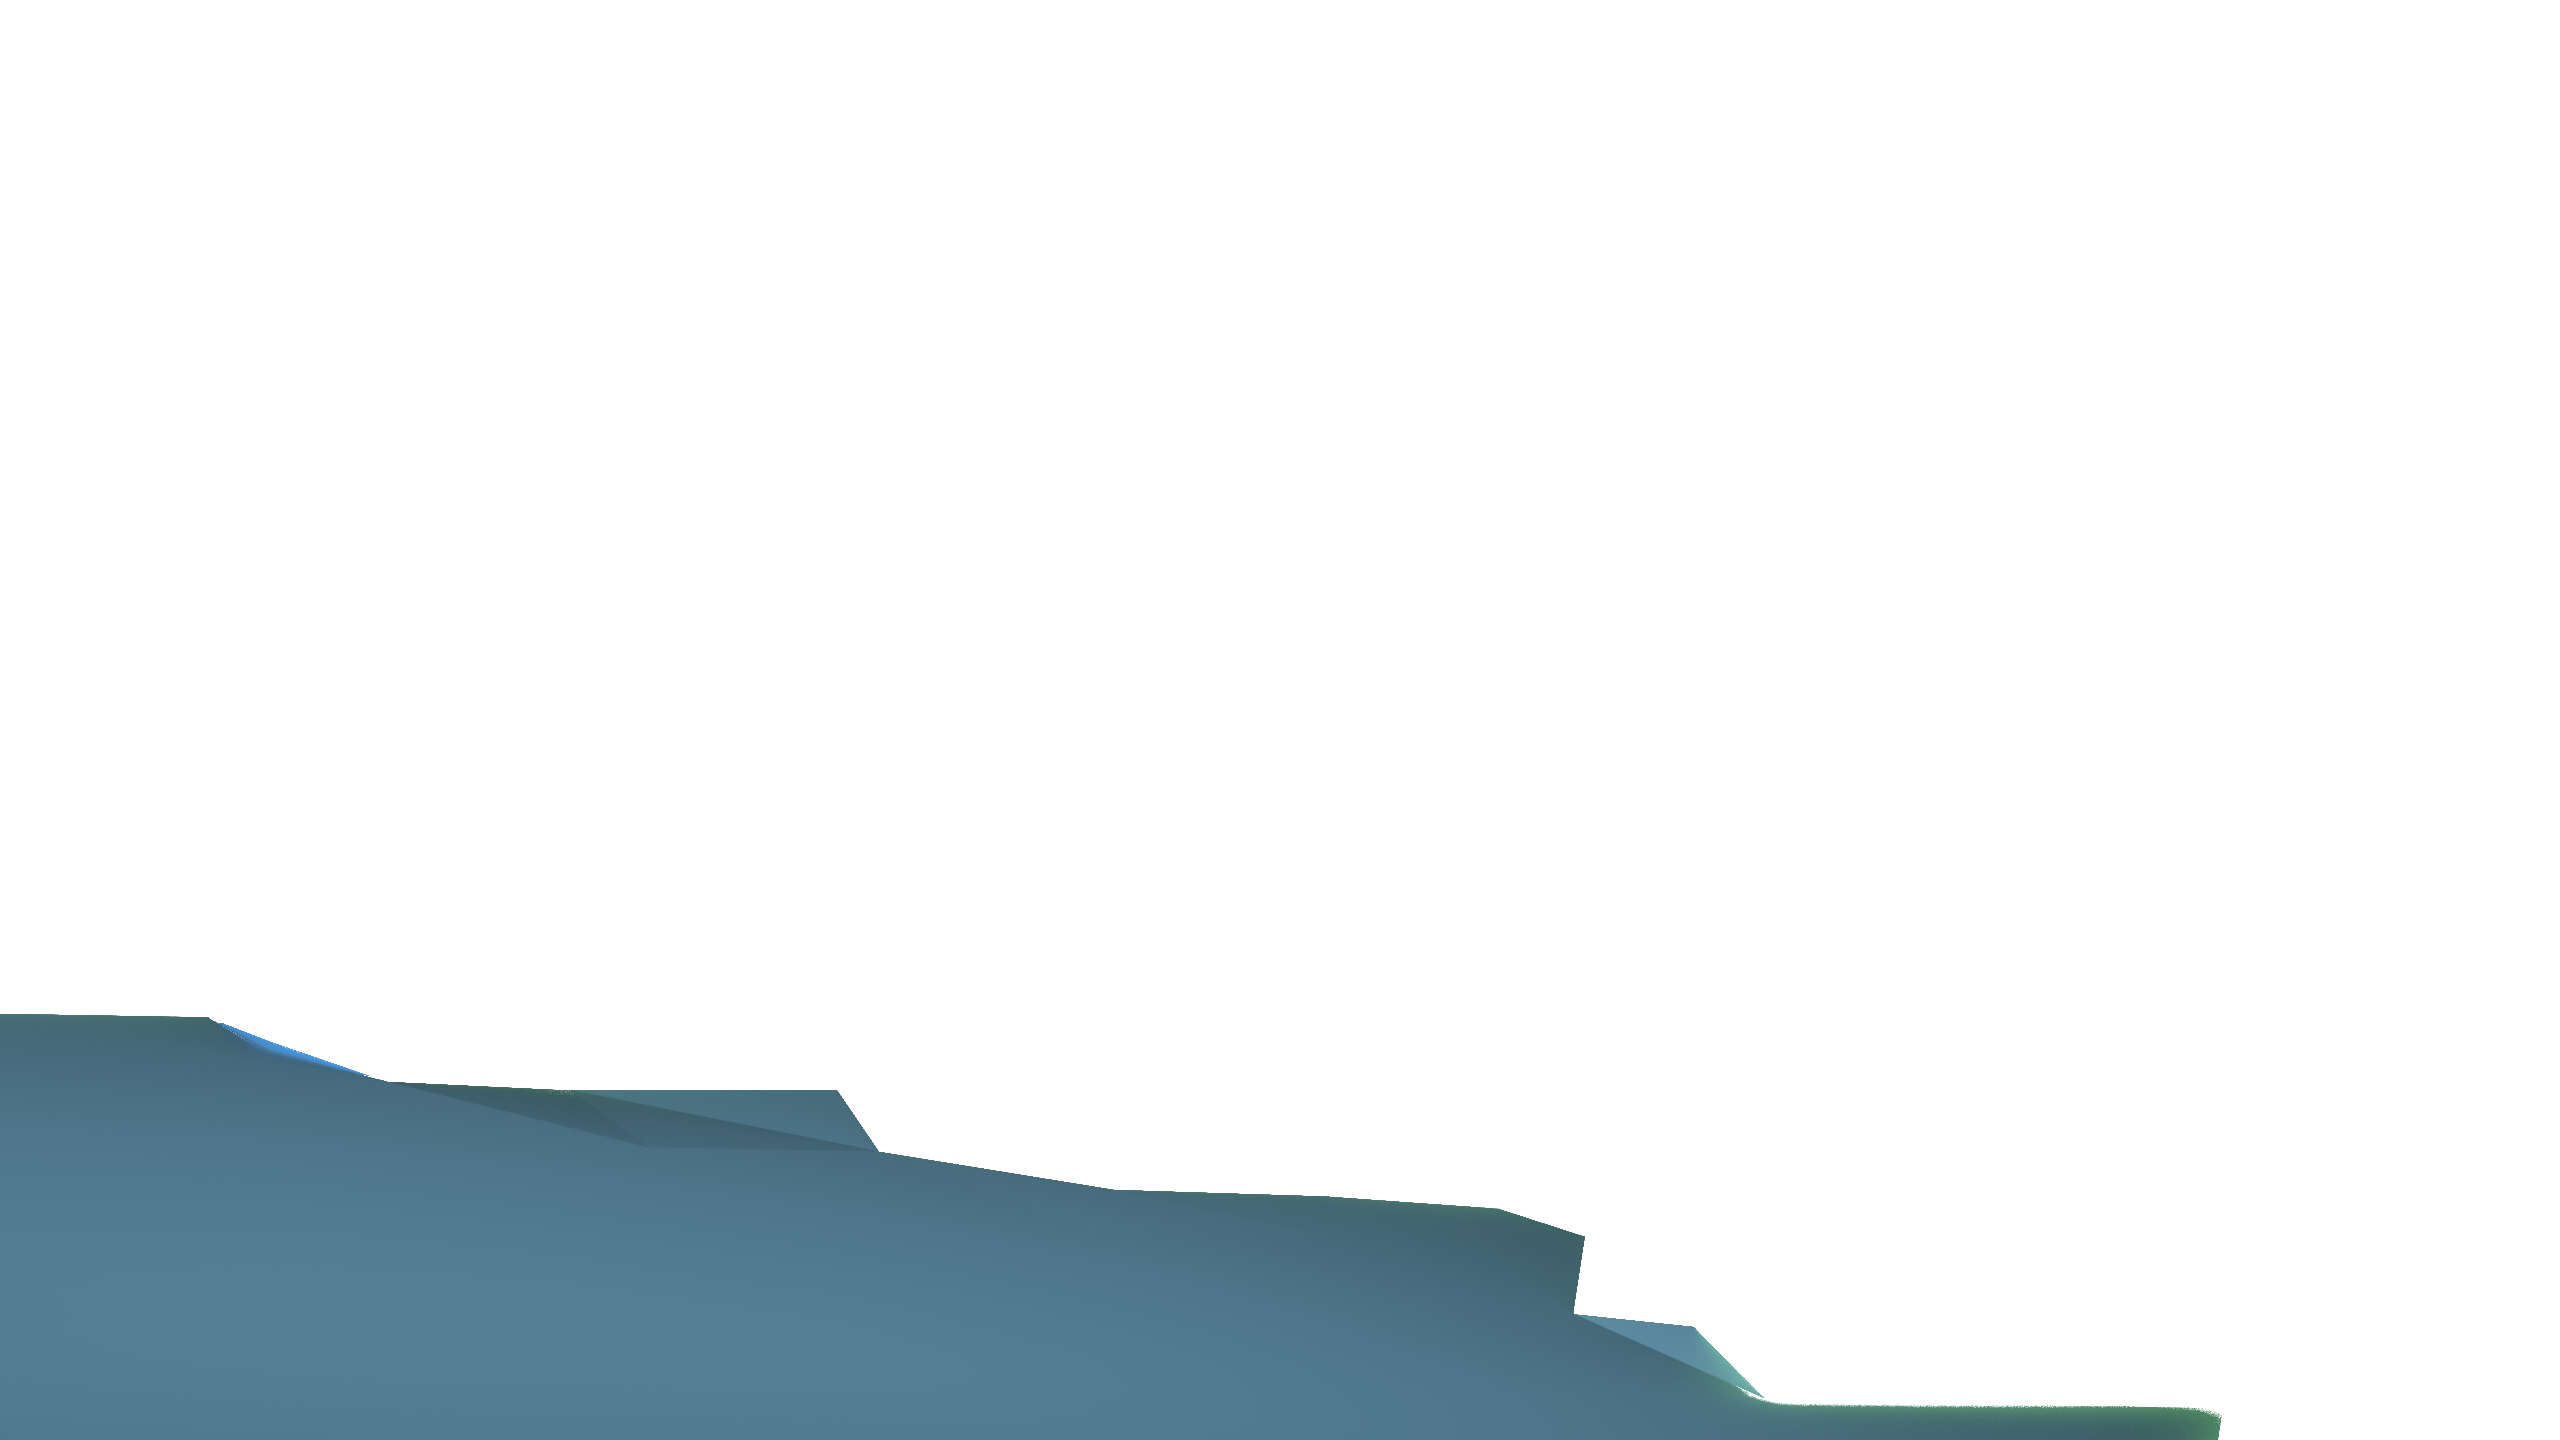
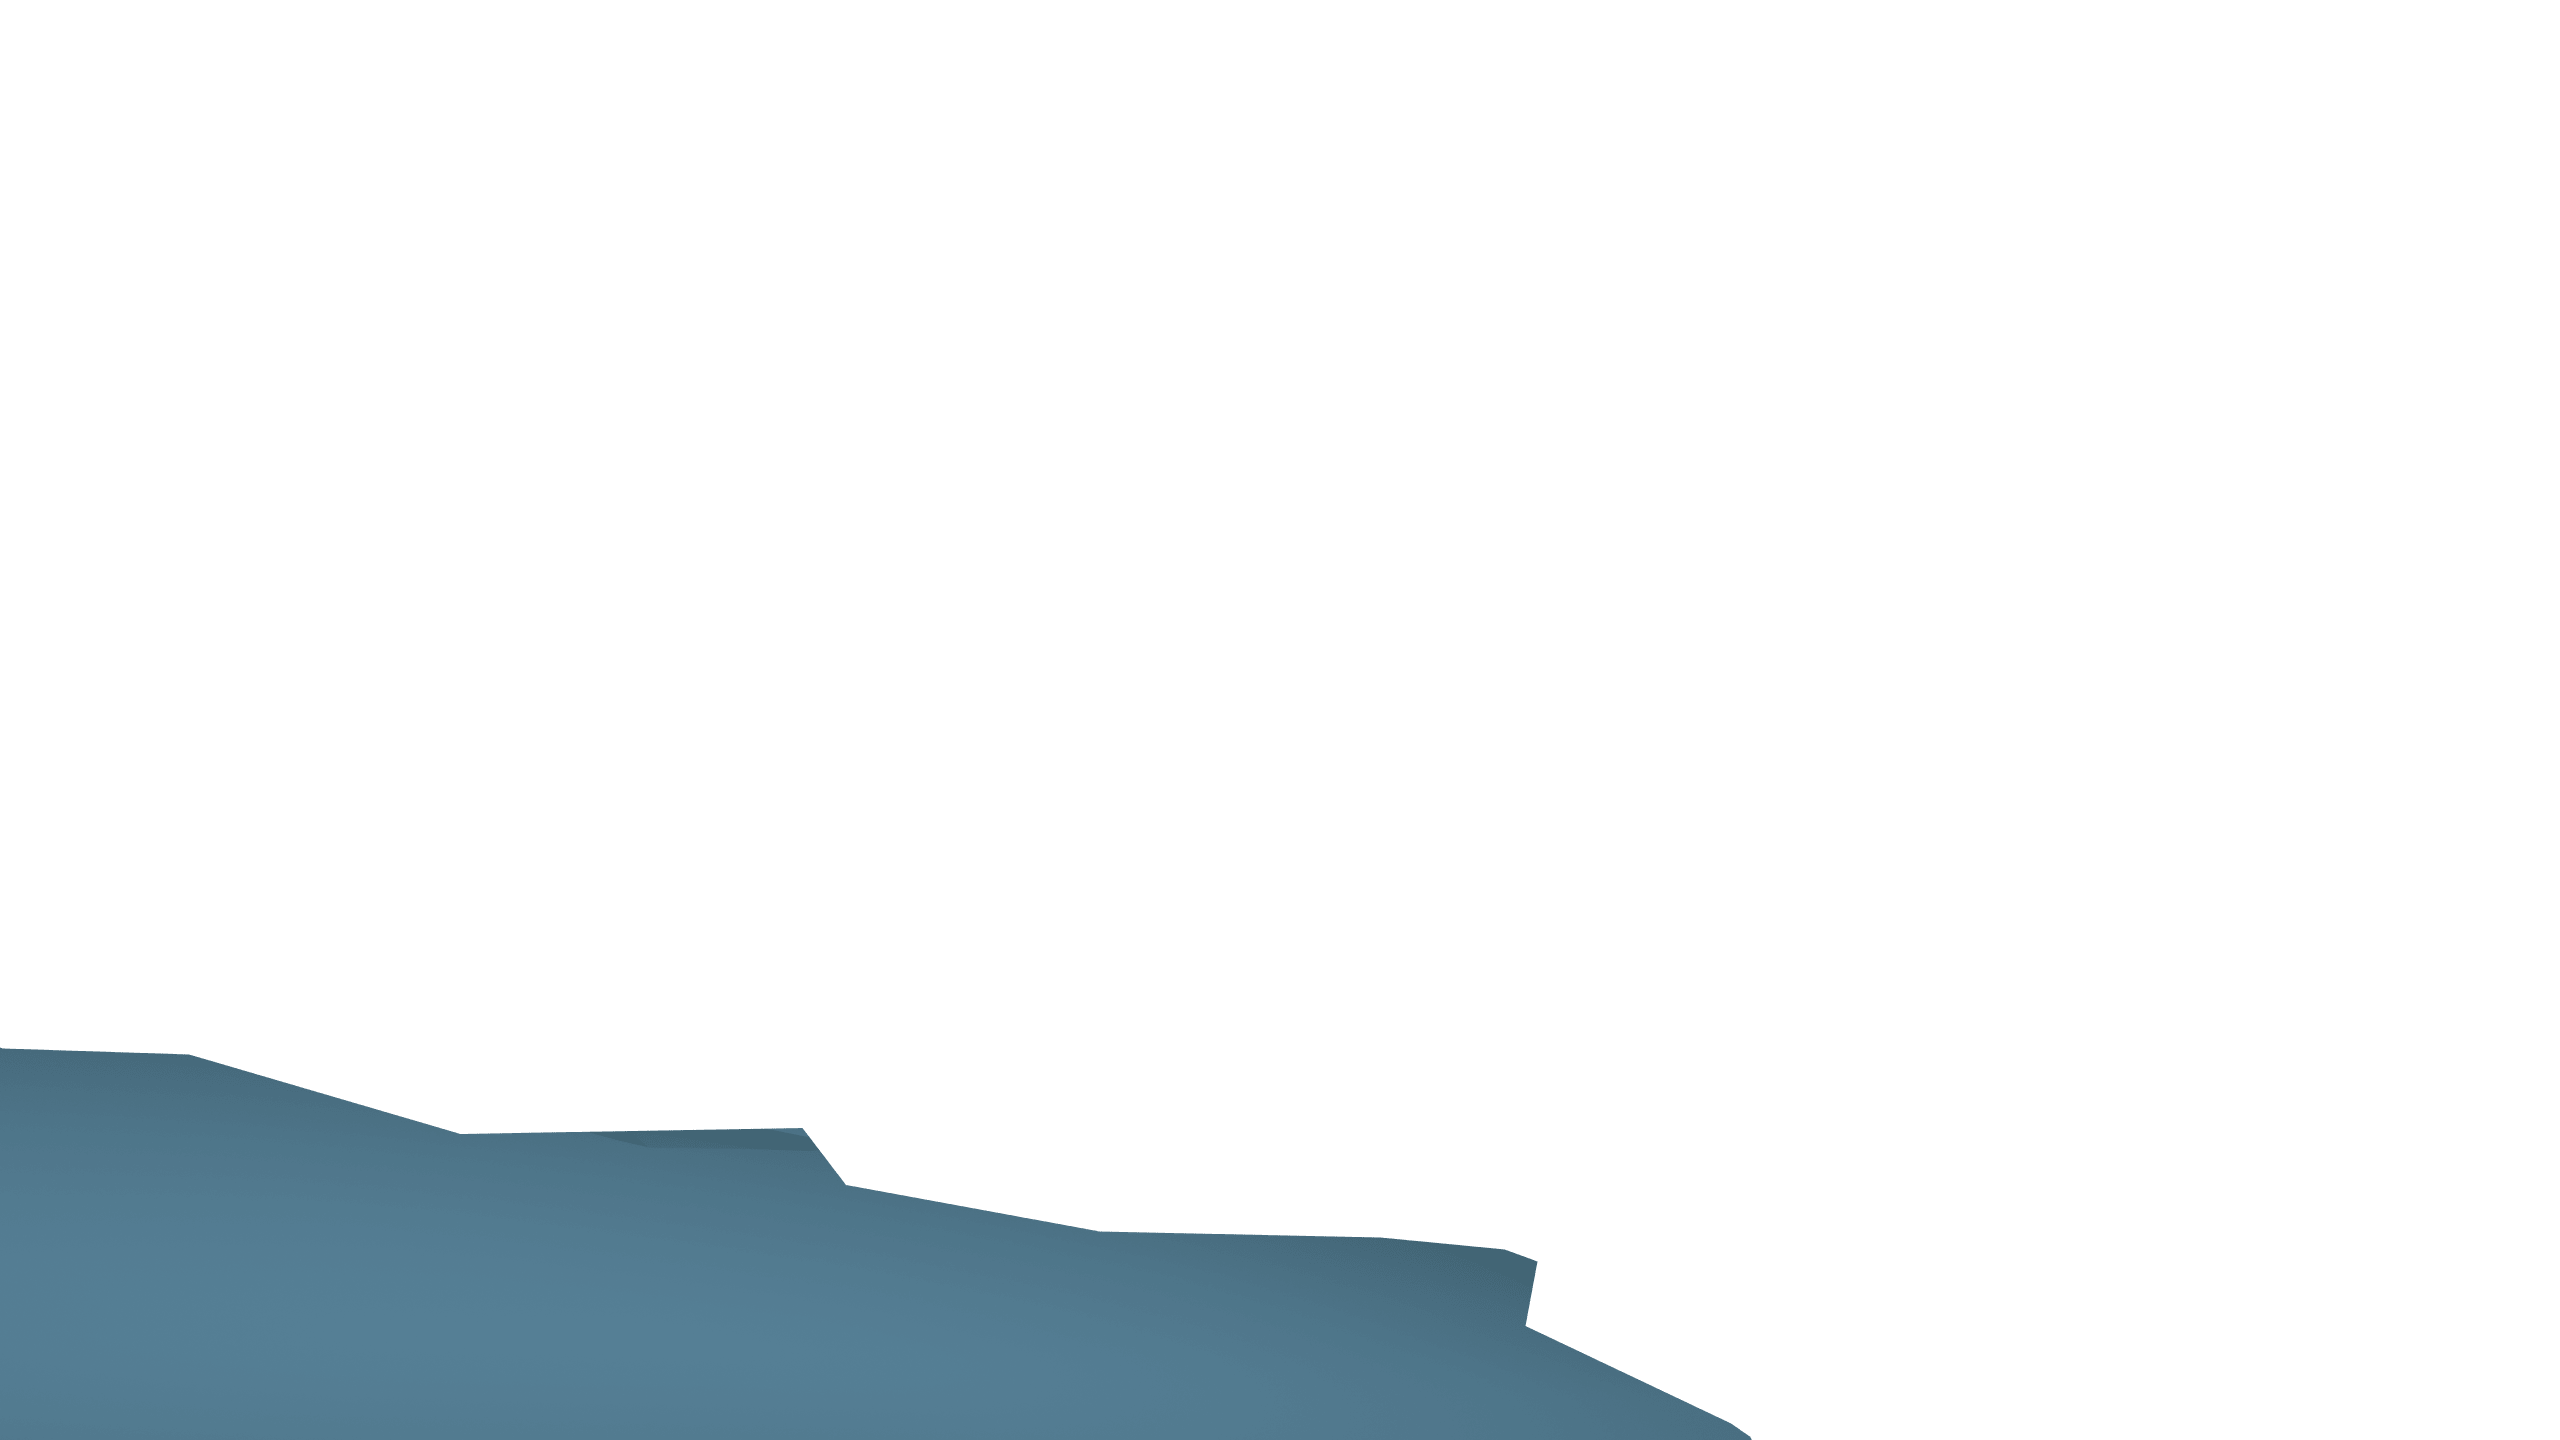
Fixed positioning of buildings and enemies.

Changed region(s): [[0.0, 0.6875, 0.875, 1.0]]

diff --git a/GBC2017/GBC2017/Screens/GameScreen.cs b/GBC2017/GBC2017/Screens/GameScreen.cs
@@ -209,7 +209,16 @@ namespace GBC2017.Screens
 	        //justgrass = FlatRedBall.TileGraphics.LayeredTileMap.FromTiledMapSave("content/screens/gamescreen/levels/justgrass.tmx", ContentManagerName);
             HelsinkiMap.AddToManagers(WorldLayer);
 	        HelsinkiMap.Z = -10;
-	        HelsinkiMap.MapLayers[2].RelativeZ = 20;
+	        HelsinkiMap.MapLayers[2].RelativeZ = 7;
+
+	        PlayAreaPolygon = HelsinkiMap.ShapeCollections[0].Polygons[0];
+
+            AlienSpawnLeftRectangle = HelsinkiMap.ShapeCollections[0].AxisAlignedRectangles[0];
+	        AlienSpawnRightRectangle = HelsinkiMap.ShapeCollections[0].AxisAlignedRectangles[1];
+
+	        PlayAreaPolygon.AttachTo(HelsinkiMap, true);
+            AlienSpawnLeftRectangle.AttachTo(HelsinkiMap,true);
+	        AlienSpawnRightRectangle.AttachTo(HelsinkiMap, true);
 
             //This centers the map in the middle of the screen
             HelsinkiMap.Position.X = -HelsinkiMap.Width / 2;
@@ -217,12 +226,22 @@ namespace GBC2017.Screens
             //This positions the map between the info bar and build button bar
 	        HelsinkiMap.Position.Y = HelsinkiMap.Height/2;
 
-	        HelsinkiMap.RemoveFromManagersOneWay();
+            HelsinkiMap.RemoveFromManagersOneWay();
 	        HelsinkiMap.AddToManagers(WorldLayer);
 
-	        PlayAreaPolygon = HelsinkiMap.ShapeCollections[0].Polygons[0];
-	        AlienSpawnLeftRectangle = HelsinkiMap.ShapeCollections[0].AxisAlignedRectangles[0];
-	        AlienSpawnRightRectangle = HelsinkiMap.ShapeCollections[0].AxisAlignedRectangles[1];
+	        
+            //PlayAreaPolygon.Position = new Vector3(PlayAreaPolygon.X - HelsinkiMap.Width/2, PlayAreaPolygon.Y + HelsinkiMap.Height/2, PlayAreaPolygon.Z);
+	        
+	        ShapeManager.AddPolygon(PlayAreaPolygon);
+            ShapeManager.AddToLayer(PlayAreaPolygon, HUDLayer);
+
+            
+            //AlienSpawnLeftRectangle.Position = new Vector3(AlienSpawnLeftRectangle.X - HelsinkiMap.Width / 2, AlienSpawnLeftRectangle.Y + HelsinkiMap.Height / 2, AlienSpawnLeftRectangle.Z);
+            ShapeManager.AddToLayer(AlienSpawnLeftRectangle, HUDLayer);
+
+            
+	        //AlienSpawnRightRectangle.Position = new Vector3(AlienSpawnRightRectangle.X - HelsinkiMap.Width / 2, AlienSpawnRightRectangle.Y + HelsinkiMap.Height / 2, AlienSpawnRightRectangle.Z);
+	        ShapeManager.AddToLayer(AlienSpawnRightRectangle, HUDLayer);
         }
 #endregion
 
@@ -575,9 +594,7 @@ namespace GBC2017.Screens
 	        else if (GuiManager.Cursor.PrimaryDown && GuiManager.Cursor.ObjectGrabbed != null)
 	        {
 	            var objectAsStructure = GuiManager.Cursor.ObjectGrabbed as BaseStructure;
-	            var shouldAllowDrag = objectAsStructure != null && objectAsStructure.IsBeingPlaced;
-                //TODO:  This needs to be fixed
-                //&& PlayAreaPolygon.IsMouseOver(GuiManager.Cursor, WorldLayer);
+	            var shouldAllowDrag = objectAsStructure != null && objectAsStructure.IsBeingPlaced && PlayAreaPolygon.IsMouseOver(GuiManager.Cursor, WorldLayer);
 
 	            if (shouldAllowDrag)
 	            {

diff --git a/GBC2017/GBC2017/Entities/Structures/EnergyProducers/HydroGenerator.cs b/GBC2017/GBC2017/Entities/Structures/EnergyProducers/HydroGenerator.cs
@@ -104,28 +104,6 @@ namespace GBC2017.Entities.Structures.EnergyProducers
 	                                 0.4f;
 	            emitter.TimedEmit(_waterDrops);
 	        }
-
-
-	        var waterDropDisappearsAtY = LargeWheelSprite.Position.Y - LargeWheelSprite.Height * FlatRedBallServices.Random.Between(0.4f, 0.6f);
-            var waterDropMaxDisappearAtY = LargeWheelSprite.Position.Y - LargeWheelSprite.Height * 0.6f;
-
-	        bool dropDestroyed = false;
-
-            for (int i = _waterDrops.Count; i > 0; i--)
-	        {
-	            var waterDrop = _waterDrops[i - 1];
-	            if (!dropDestroyed && waterDrop.Y < waterDropDisappearsAtY)
-	            {
-	                dropDestroyed = true;
-                    _waterDrops.RemoveAt(i-1);
-                    SpriteManager.RemoveSprite(waterDrop);
-                }
-                else if (waterDrop.Y < waterDropMaxDisappearAtY)
-	            {
-	                _waterDrops.RemoveAt(i - 1);
-	                SpriteManager.RemoveSprite(waterDrop);
-                }
-	        }
         }
 
 	    private double BaseEnergyPerSecond()

diff --git a/GBC2017/GBC2017/TileGraphics/MapDrawableBatch.cs b/GBC2017/GBC2017/TileGraphics/MapDrawableBatch.cs
@@ -312,6 +312,24 @@ namespace FlatRedBall.TileGraphics
             SpriteManager.AddToLayer(this, layer);
         }
 
+        public void SetAlpha(float alpha)
+        {
+            if (alpha < 1f)
+            {
+                ZBuffered = true;
+                mAlphaTestEffect = new AlphaTestEffect(FlatRedBallServices.GraphicsDevice);
+                mAlphaTestEffect.Alpha = alpha;
+                mAlphaTestEffect.VertexColorEnabled = false;
+            }
+            else
+            {
+                ZBuffered = false;
+                mAlphaTestEffect = new AlphaTestEffect(FlatRedBallServices.GraphicsDevice);
+                mAlphaTestEffect.Alpha = 1;
+                mAlphaTestEffect.VertexColorEnabled = false;
+            }
+        }
+
         public static MapDrawableBatch FromScnx(string sceneFileName, string contentManagerName, bool verifySameTexturePerLayer)
         {
             // TODO: This line crashes when the path is already absolute!

diff --git a/GBC2017/GBC2017/TileGraphics/LayeredTileMap.cs b/GBC2017/GBC2017/TileGraphics/LayeredTileMap.cs
@@ -444,13 +444,16 @@ namespace FlatRedBall.TileGraphics
                     Width = imageLayer.imageobject.width,
                     Height = imageLayer.imageobject.height,
                     X = imageLayer.imageobject.width/2 + imageLayer.offsetX,
-                    Y = -imageLayer.imageobject.height/2 + imageLayer.offsetY
+                    Y = -imageLayer.imageobject.height/2 + imageLayer.offsetY,
+                    Alpha = imageLayer.opacity
                 };
 
                 var mdb = new MapDrawableBatch(1, texture);
                 mdb.AttachTo(toReturn, false);
                 mdb.Paste(newSprite);
                 mdb.Visible = imageLayer.Visible;
+
+
 
                 toReturn.mMapLists.Add(mdb);
             }

diff --git a/GBC2017/GBC2017/TileGraphics/TiledMapToShapeCollectionConverter.cs b/GBC2017/GBC2017/TileGraphics/TiledMapToShapeCollectionConverter.cs
@@ -82,8 +82,8 @@ namespace TMXGlueLib
                                 var aar = new AxisAlignedRectangleSave()
                                 {
                                     Name = @object.Name,
-                                    X = (float)@object.x,
-                                    Y = (float)@object.y,
+                                    X = (float)@object.x + (@object.width /2),
+                                    Y = (float)-@object.y - (@object.height / 2),
                                     ScaleX = @object.width / 2,
                                     ScaleY = @object.height / 2,
                                 };

diff --git a/GBC2017/GBC2017/TileGraphics/TiledMapSave.Serialization.cs b/GBC2017/GBC2017/TileGraphics/TiledMapSave.Serialization.cs
@@ -298,6 +298,7 @@ namespace TMXGlueLib
 
         private float _offsetX;
         private float _offsetY;
+        private float _opacity;
 
         List<property> mProperties = new List<property>();
 
@@ -349,6 +350,14 @@ namespace TMXGlueLib
         {
             get { return _visibleAsInt; }
             set { _visibleAsInt = value; }
+        }
+
+
+        [XmlAttribute("opacity")]
+        public float opacity
+        {
+            get { return _opacity; }
+            set { _opacity = value; }
         }
 
         [XmlAttribute("offsetx")]
